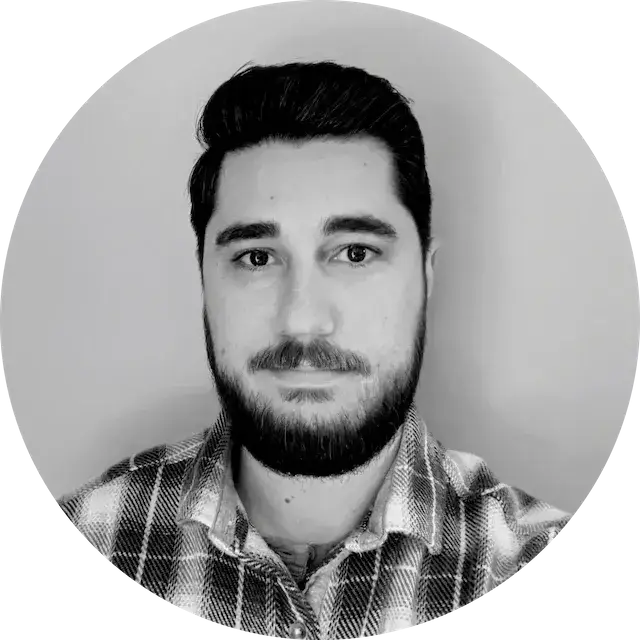
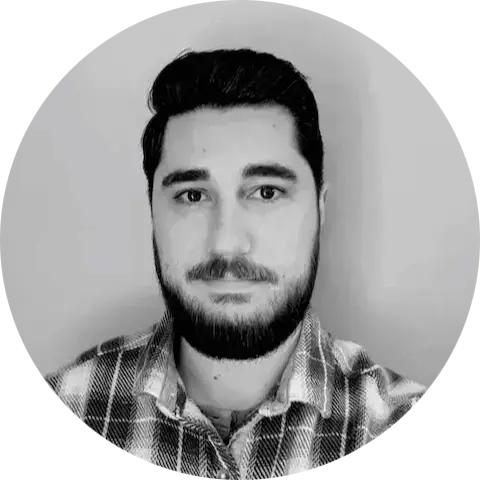
Update hero component and profile picture
- Modified hero.js to include new state and effects.
- Added a new low-resolution profile picture to reduce perceived load time.

diff --git a/components/home/hero.js b/components/home/hero.js
@@ -21,6 +21,7 @@ const Hero = () => {
   // State for controlling the modal visibility
   const [showModal, setShowModal] = useState(false);
   const [modalType, setModalType] = useState(''); // State to determine modal type (contact or resume)
+  const [isHorizontal, setIsHorizontal] = useState(false); // State to track horizontal layout
 
   // Function to open the modal
   const showModalHandler = useCallback((type) => {
@@ -47,6 +48,24 @@ const Hero = () => {
   // Initialize the AOS library with specified settings
   useEffect(() => {
     Aos.init({ duration: 550 });
+  }, []);
+
+  // Check for horizontal layout
+  useEffect(() => {
+    const checkOrientation = () => {
+      if (window.innerWidth > window.innerHeight && window.innerWidth <= 1080) {
+        setIsHorizontal(true);
+      } else {
+        setIsHorizontal(false);
+      }
+    };
+
+    checkOrientation();
+    window.addEventListener('resize', checkOrientation);
+
+    return () => {
+      window.removeEventListener('resize', checkOrientation);
+    };
   }, []);
 
   // Variants for button animations using framer-motion
@@ -156,6 +175,7 @@ const Hero = () => {
         </AnimatePresence>
       </section>
       <Footer />
+      {isHorizontal && <Footer />} {/* Display the footer when isHorizontal is true */}
     </>
   );
 };
